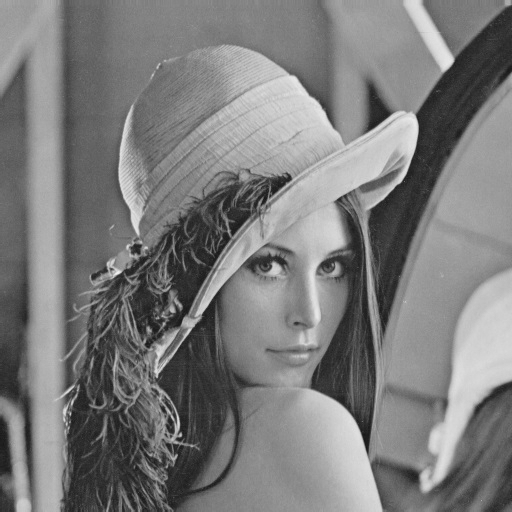
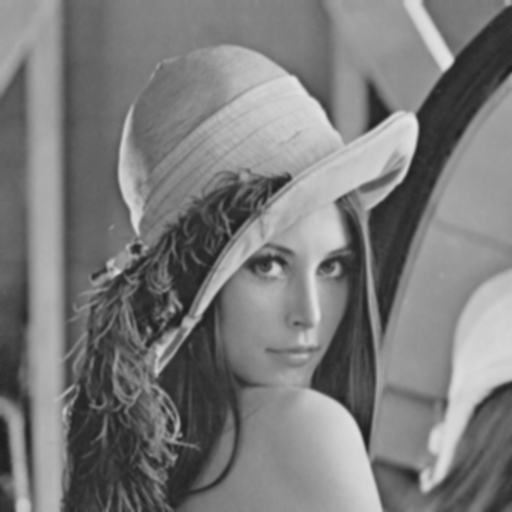
Added noise reduction filter

diff --git a/include/EdgeDetection/PixelMatrix.hpp b/include/EdgeDetection/PixelMatrix.hpp
@@ -16,20 +16,24 @@ namespace EdgeDetection
 
 		explicit PixelMatrix(const Types::Image& image);
 
-		[[nodiscard]]
-		inline Types::Byte& at(int x, int y);
+		PixelMatrix(const PixelMatrix& pixelMatrix) = default;
+
+		Types::Byte& at(int x, int y);
 
 		[[nodiscard]]
-		inline Types::Byte at(int x, int y) const;
+		Types::Byte at(int x, int y) const;
 
 		[[nodiscard]]
-		inline int getWidth() const;
+		Types::Byte atSafe(int x, int y, Types::Byte alternative) const;
 
 		[[nodiscard]]
-		inline int getHeight() const;
+		int getWidth() const;
 
 		[[nodiscard]]
-		inline const std::vector<Types::Byte>& getPixels() const;
+		int getHeight() const;
+
+		[[nodiscard]]
+		const std::vector<Types::Byte>& getPixels() const;
 
 		[[nodiscard]]
 		Types::Image toImage() const;

diff --git a/include/EdgeDetection/NoiseReductionFilter.hpp b/include/EdgeDetection/NoiseReductionFilter.hpp
@@ -1,0 +1,30 @@
+#pragma once
+
+#include "Filter.hpp"
+#include <array>
+
+namespace EdgeDetection
+{
+	/**
+	 * 5x5 Gaussian filter.
+	 */
+	class NoiseReductionFilter : public Filter
+	{
+	  protected:
+
+		void filterPixel(const PixelMatrix &input, PixelMatrix &output, int x, int y) override;
+
+	  private:
+
+		float multiplier = 1.f/159.f;
+
+		std::array<std::array<float, 5>, 5> factors =
+		{
+			std::array{2.f, 4.f, 5.f, 4.f, 2.f},
+			std::array{4.f, 9.f, 12.f, 9.f, 4.f},
+			std::array{5.f, 12.f, 15.f, 12.f, 5.f},
+			std::array{4.f, 9.f, 12.f, 9.f, 4.f},
+			std::array{2.f, 4.f, 5.f, 4.f, 2.f}
+		};
+	};
+}

diff --git a/source/EdgeDetection/NoiseReductionFilter.cpp b/source/EdgeDetection/NoiseReductionFilter.cpp
@@ -1,0 +1,23 @@
+#include "EdgeDetection/NoiseReductionFilter.hpp"
+
+namespace EdgeDetection
+{
+	void NoiseReductionFilter::filterPixel(const PixelMatrix& input, PixelMatrix& output, int x, int y)
+	{
+		const auto currentPixel = input.at(x, y);
+		float result = 0.f;
+
+		for (int i = 0; i < 5; ++i)
+		{
+			for (int j = 0; j < 5; ++j)
+			{
+				result += static_cast<float>(input.atSafe(x + i - 2, y + j - 2, currentPixel))
+					* factors.at(i).at(j);
+			}
+		}
+
+		result *= multiplier;
+
+		output.at(x, y) = static_cast<Types::Byte>(result);
+	}
+}

diff --git a/source/EdgeDetection/Filter.cpp b/source/EdgeDetection/Filter.cpp
@@ -1,0 +1,24 @@
+#include "EdgeDetection/Filter.hpp"
+#include "EdgeDetection/PixelMatrix.hpp"
+
+namespace EdgeDetection
+{
+
+	void Filter::filterPixelMatrix(PixelMatrix& pixelMatrix)
+	{
+		PixelMatrix output (pixelMatrix);
+
+		const auto width = pixelMatrix.getWidth();
+		const auto height = pixelMatrix.getHeight();
+
+		for (int i = 0; i < width; ++i)
+		{
+			for (int j = 0; j < height; ++j)
+			{
+				filterPixel(pixelMatrix, output, i, j);
+			}
+		}
+
+		pixelMatrix = output;
+	}
+}

diff --git a/include/EdgeDetection/Filter.hpp b/include/EdgeDetection/Filter.hpp
@@ -1,0 +1,22 @@
+#pragma once
+
+#include "EdgeDetectionTypes.hpp"
+#include "PixelMatrix.hpp"
+
+namespace EdgeDetection
+{
+	/**
+	 * Generic filter that can be applied to pixel matrix.
+	 */
+	class Filter
+	{
+	  public:
+
+		void filterPixelMatrix(PixelMatrix& pixelMatrix);
+
+	  protected:
+
+		virtual void filterPixel(const PixelMatrix& input, PixelMatrix& output, int x, int y) = 0;
+
+	};
+}

diff --git a/source/EdgeDetection/PixelMatrix.cpp b/source/EdgeDetection/PixelMatrix.cpp
@@ -21,6 +21,16 @@ namespace EdgeDetection
 		return pixels.at(x + width * y);
 	}
 
+	Types::Byte PixelMatrix::atSafe(int x, int y, Types::Byte alternative) const
+	{
+		if ((x < 0 || width-1 < x) || (y < 0 || height-1 < y))
+		{
+			return alternative;
+		}
+
+		return pixels.at(x + width * y);
+	}
+
 	int PixelMatrix::getWidth() const
 	{
 		return width;

diff --git a/app/App.cpp b/app/App.cpp
@@ -10,6 +10,10 @@ int main()
 
 	// Here goes the detection algorithm on pixel matrix
 
+	// Noise reduction
+	NoiseReductionFilter noiseReductionFilter {};
+	noiseReductionFilter.filterPixelMatrix(pixelMatrix);
+
 	Utility::saveImage(pixelMatrix.toImage(), "../output/Lenna.jpg");
 
 	return 0;

diff --git a/include/EdgeDetection.hpp b/include/EdgeDetection.hpp
@@ -3,3 +3,5 @@
 #include "EdgeDetection/EdgeDetectionTypes.hpp"
 #include "EdgeDetection/Utility.hpp"
 #include "EdgeDetection/PixelMatrix.hpp"
+#include "EdgeDetection/Filter.hpp"
+#include "EdgeDetection/NoiseReductionFilter.hpp"
